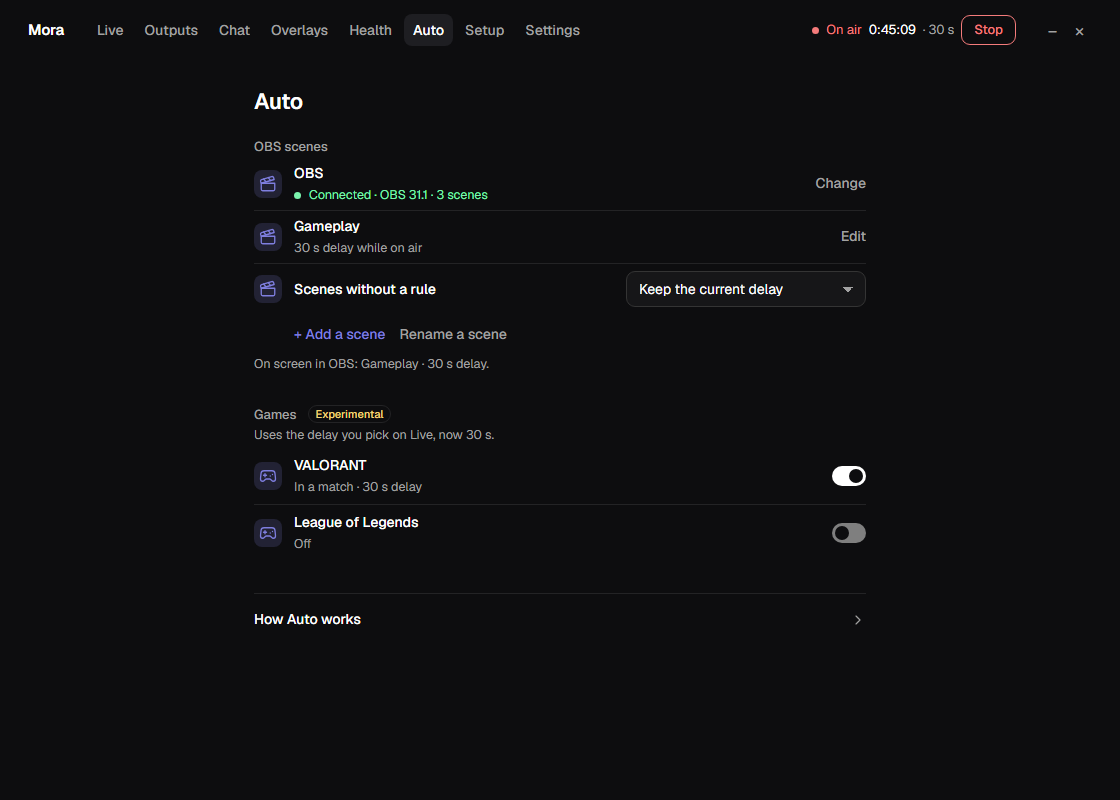
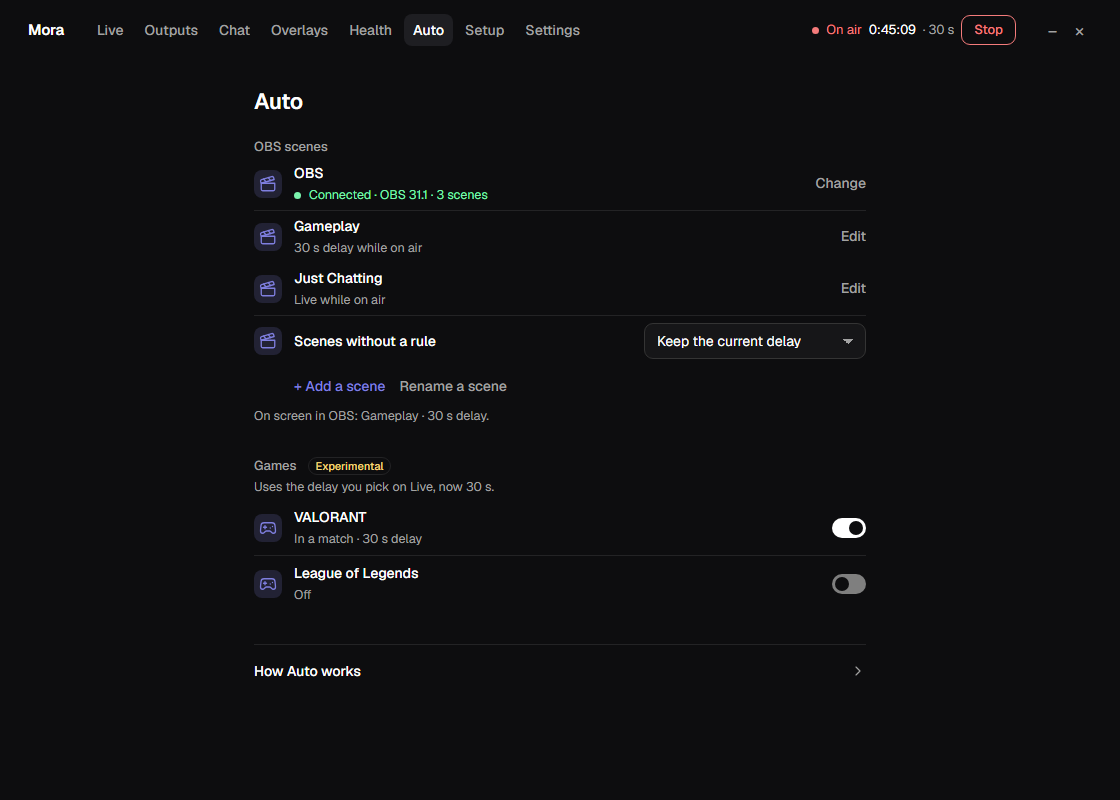
docs: update README and screenshots for Mora 2.3.0
Fresh screenshots from the 2.3.0 panel, plus Setup and a Spanish Live
screen. Mention that Mora is free, the five languages, Aitum setup help
and the setup guide in Settings.

diff --git a/README.md b/README.md
@@ -1,13 +1,14 @@
 # Mora
 
 Change your stream delay while you're live, and send one stream to every platform at once.
+Free for Windows.
 
 ![Mora's Live screen with a 30 second delay](images/live.png)
 
 ## Download
 
 **[Download Mora for Windows](https://github.com/ahizechi/Mora/releases/latest)**, then run the
-`setup.exe` installer from that page. Mora keeps itself up to date.
+`setup.exe` installer from that page. Mora is free and keeps itself up to date.
 
 Windows 10 or 11, 64-bit. If Windows shows a blue "protected your PC" box, choose
 **More info → Run anyway**.
@@ -18,11 +19,13 @@ Windows 10 or 11, 64-bit. If Windows shows a blue "protected your PC" box, choos
 - **Multistream.** Up to 8 outputs: Twitch, YouTube, TikTok, Kick or any RTMP server. If one
   drops, the others keep going.
 - **Vertical video.** Send a vertical stream to TikTok alongside your normal one, using the free
-  Aitum Vertical plugin for OBS.
+  Aitum Vertical plugin for OBS. Mora can fill in Aitum's stream settings for you.
 - **All your chat in one place.** Twitch, YouTube, TikTok and Kick chat together, in Mora, as an
   OBS dock or on screen.
 - **Automatic delay.** Give each OBS scene its own delay, or raise it during VALORANT and
   League of Legends matches.
+- **Five languages.** English, Español, Français, Deutsch and Português (Brasil), including the
+  setup guide. Pick one in **Settings**.
 - **Your stream, untouched.** Mora doesn't re-encode anything, and your stream keys are stored
   only on your PC.
 
@@ -39,7 +42,13 @@ Windows 10 or 11, 64-bit. If Windows shows a blue "protected your PC" box, choos
 3. Add where you stream in **Outputs**.
 4. Start streaming in OBS. Change the delay in Mora whenever you like.
 
-Setup lists the few OBS settings Mora needs and has a full guide if you get stuck.
+Setup checks the few OBS settings Mora needs as you stream. The full setup guide is one click
+away, in Setup and in Settings.
+
+<p>
+  <img src="images/setup.png" alt="Setup: point OBS at Mora, add outputs, start streaming" width="49%">
+  <img src="images/languages.png" alt="Mora's Live screen in Spanish" width="49%">
+</p>
 
 Good to know: adding delay replays the last few seconds to viewers, and removing it skips
 ahead to live.
